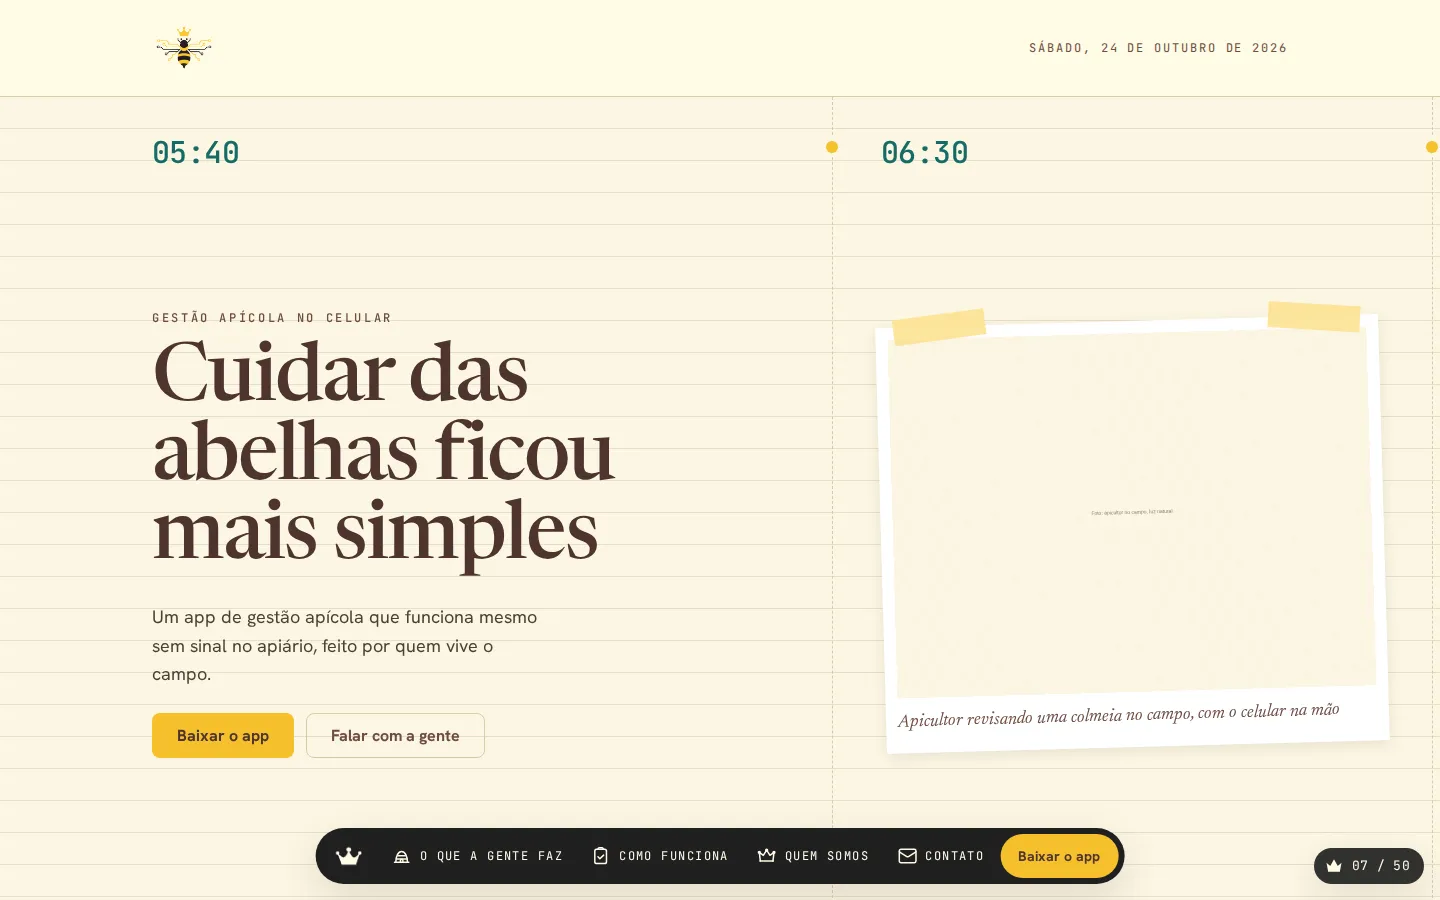
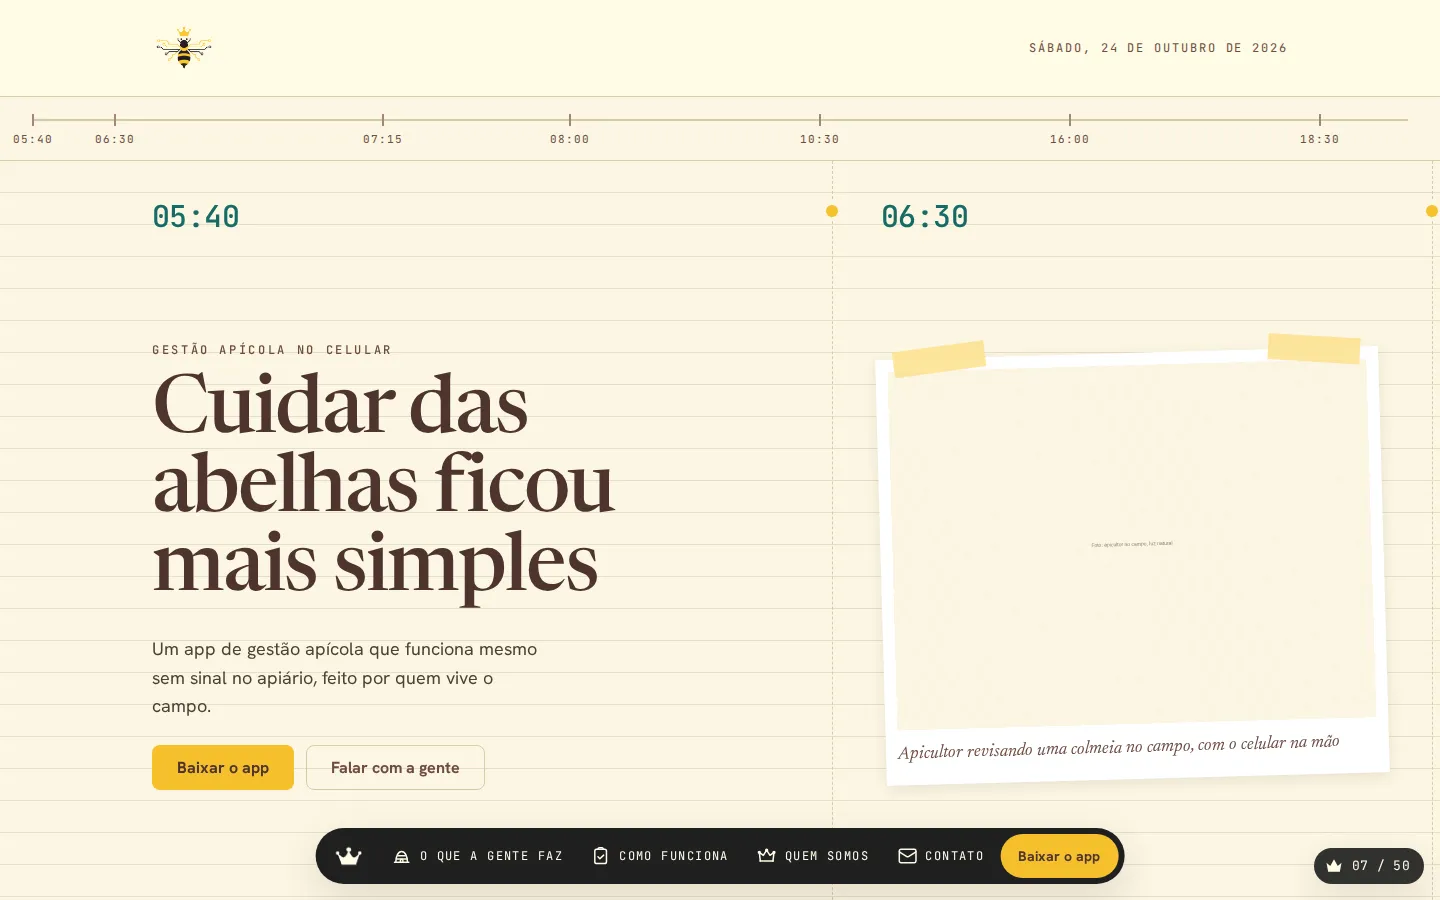
Corrige acessibilidade do trilho (06) e do menu (09), régua do diário (07) e estágio frio da estação (08)

diff --git a/templates/08-estacao.html b/templates/08-estacao.html
@@ -15,7 +15,8 @@
        08 Estação · campo · N3 / C6 / R7
        As floradas do ano em quatro blocos de estação. Ao rolar, o fundo da
        página passa pelas temperaturas da marca (creme → véu de mel →
-       superfície → papel → creme) animando variáveis CSS com scrub.
+       superfície → véu petróleo, o inverno frio → creme) animando variáveis
+       CSS com scrub: quente → frio → quente, só com tokens da marca.
        Sem movimento: cada trecho já nasce com o seu fundo (data-tom).
        Nomes dos meses vêm do Intl (pt-BR): são dado de calendário, não cópia.
        - nada de opacity < 1 fora do gsap.matchMedia;
@@ -42,7 +43,7 @@
     [data-tom="creme"] { background: var(--creme); }
     [data-tom="veu"] { background: var(--mel-veu); }
     [data-tom="superficie"] { background: var(--superficie); }
-    [data-tom="papel"] { background: var(--creme-papel); }
+    [data-tom="inverno"] { background: var(--petroleo-veu); }
     main > section[data-tom]:not(:first-child) { padding-top: var(--respiro); }
     html.tons-vivos main > section[data-tom] { background: transparent; }
     html.tons-vivos main > section[data-tom]:not(:first-child) { padding-top: var(--respiro); }
@@ -393,7 +394,7 @@
     </section>
 
     <!-- SEÇÃO: equipe -->
-    <section data-secao="equipe" id="equipe" data-tom="papel">
+    <section data-secao="equipe" id="equipe" data-tom="inverno">
       <div class="dr-container">
         <header class="titulo-secao">
           <p class="dr-eyebrow" data-c="equipe.eyebrow"></p>
@@ -423,7 +424,7 @@
     </section>
 
     <!-- SEÇÃO: depoimento -->
-    <section data-secao="depoimento" data-tom="papel">
+    <section data-secao="depoimento" data-tom="inverno">
       <div class="dr-container">
         <figure class="citacao">
           <blockquote><p class="dr-quote" data-c="depoimento.citacao"></p></blockquote>
@@ -579,8 +580,8 @@
         mm.add('(prefers-reduced-motion: no-preference)', function () {
           var raiz = document.documentElement;
           raiz.classList.add('tons-vivos');
-          var TONS = { creme: '#FFFBE6', veu: '#FDEFC2', superficie: '#F4ECD2', papel: '#FBF6E3' };
-          var ACENTOS = { creme: '#F5C02C', veu: '#D9A521', superficie: '#A1887F', papel: '#2E8B82' };
+          var TONS = { creme: '#FFFBE6', veu: '#FDEFC2', superficie: '#F4ECD2', inverno: '#DCEEEA' }; // --petroleo-veu
+          var ACENTOS = { creme: '#F5C02C', veu: '#D9A521', superficie: '#A1887F', inverno: '#2E8B82' }; // --petroleo-claro
 
           // Efeito principal: a temperatura de cor do fundo muda ao rolar.
           // Cada troca de tom é um trecho com scrub, ancorado no início do trecho seguinte.

diff --git a/templates/09-maos.html b/templates/09-maos.html
@@ -239,7 +239,7 @@
 
   <!-- SEÇÃO: nav (N4 · botão hambúrguer que abre overlay em tela cheia) -->
   <nav data-secao="nav">
-    <button class="menu-botao" type="button" aria-expanded="false" aria-controls="menu-overlay"><span></span></button>
+    <button class="menu-botao" type="button" aria-label="Abrir menu" aria-expanded="false" aria-controls="menu-overlay"><span></span></button>
     <div class="overlay" id="menu-overlay" hidden>
       <div class="dr-container overlay__topo"><img src="../img/logos/logo-negativa.png" alt="" data-c-alt="marca.alt" width="64" height="64"></div>
       <div class="dr-container overlay__links">
@@ -574,11 +574,11 @@
         /* ---- N4: abrir e fechar o overlay ---- */
         var botao = document.querySelector('.menu-botao');
         var overlay = document.getElementById('menu-overlay');
-        botao.setAttribute('aria-label', DR.valor('marca.alt').v);
         var animarAbertura = null; // definido no matchMedia quando há movimento
         function abrir() {
           overlay.hidden = false;
           botao.setAttribute('aria-expanded', 'true');
+          botao.setAttribute('aria-label', 'Fechar menu');
           document.body.style.overflow = 'hidden';
           if (animarAbertura) animarAbertura();
           var primeiro = overlay.querySelector('a'); if (primeiro) primeiro.focus({ preventScroll: true });
@@ -586,6 +586,7 @@
         function fechar() {
           overlay.hidden = true;
           botao.setAttribute('aria-expanded', 'false');
+          botao.setAttribute('aria-label', 'Abrir menu');
           document.body.style.overflow = '';
         }
         botao.addEventListener('click', function () { if (overlay.hidden) abrir(); else { fechar(); botao.focus(); } });

diff --git a/templates/07-diario.html b/templates/07-diario.html
@@ -140,7 +140,7 @@
     .e-pinado .pista > [data-secao="como-funciona"] { display: flex; flex: none; gap: 0; height: 100%; }
     .e-pinado .pagina {
       display: flex; flex-direction: column; justify-content: center; gap: var(--sp-5);
-      flex: none; width: var(--w, 520px); height: 100%; padding: 96px var(--sp-7) var(--sp-7);
+      flex: none; width: var(--w, 520px); height: 100%; padding: 88px var(--sp-7) 112px; /* base livre para a pílula N2 */
       border-left: 1px dashed var(--linha-forte);
     }
     .e-pinado .pagina::before { position: absolute; top: 40px; left: var(--sp-7); padding: 0; font-size: 30px; }
@@ -152,7 +152,8 @@
     .e-pinado .nota { --w: 420px; }
     .e-pinado .passo { --w: 560px; display: grid; grid-template-columns: minmax(0, 1fr) 170px; align-content: center; }
     .e-pinado .fim { --w: 560px; }
-    .e-pinado .regua { display: block; position: relative; height: 72px; flex: none; border-top: 1px solid var(--linha-forte); background: var(--creme-papel); }
+    /* Régua no topo do quadro pinado: fica longe da pílula N2 e do switcher, que ocupam a base. */
+    .e-pinado .regua { display: block; order: -1; position: relative; height: 64px; flex: none; border-bottom: 1px solid var(--linha-forte); background: var(--creme-papel); }
     .regua__trilho { position: absolute; left: 32px; right: 32px; top: 22px; height: 2px; background: var(--linha-forte); }
     .regua__fill { position: absolute; inset: 0; background: var(--mel); transform-origin: left center; transform: scaleX(0); }
     .regua__marca { position: absolute; top: -5px; width: 2px; height: 12px; background: var(--terra-clara); }

diff --git a/templates/06-horizonte.html b/templates/06-horizonte.html
@@ -82,7 +82,11 @@
       .trilho__links { flex-direction: row; margin: 0 0 0 auto; gap: 0; }
       .trilho__link { width: 40px; height: 40px; }
       .trilho__link.ativo::before { left: 10px; right: 10px; top: auto; bottom: -11px; width: auto; height: 3px; }
-      .trilho__rotulo { display: none; }
+      /* Rótulo some da tela mas continua sendo o nome acessível do link (técnica dr-sr-only). */
+      .trilho__rotulo {
+        position: absolute; left: auto; top: auto; transform: none; width: 1px; height: 1px; padding: 0; margin: -1px;
+        overflow: hidden; clip: rect(0, 0, 0, 0); clip-path: none; white-space: nowrap; border: 0;
+      }
       .trilho__baixar { width: 40px; height: 40px; margin-left: var(--sp-2); }
     }
     @media (max-width: 379px) { .trilho__link--extra { display: none; } }
